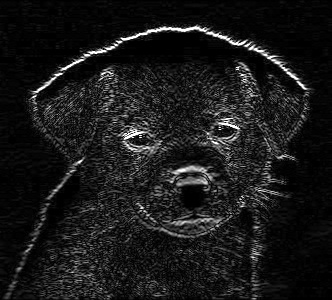
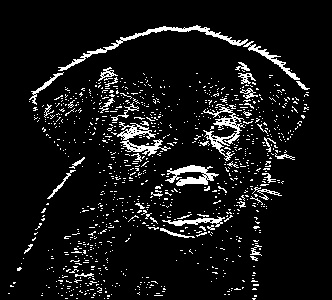
Final code, commiting before merging latex

diff --git a/scripts/part3.py b/scripts/part3.py
@@ -4,62 +4,75 @@ from matplotlib import pyplot as plt
 import csv
 from utils import mse, circle_mask
 
-image = cv2.imread("./data/pup.jpg", cv2.IMREAD_GRAYSCALE) / 255.0
+image = cv2.imread("../data/pup.jpg", cv2.IMREAD_GRAYSCALE) / 255.0
 fft = np.fft.fft2(image)
+
+# Remove plt frame
+x = plt.axes([0,0,1,1], frameon=False)
+x.get_xaxis().set_visible(False)
+x.get_yaxis().set_visible(False)
 
 ### A
 # Unshifted
 plt.imshow(np.abs(fft), cmap = 'gray')
-plt.title('Magnitude'), plt.xticks([]), plt.yticks([])
-plt.savefig("./figures/part3/fft.png")
+#plt.title('Magnitude'),
+plt.xticks([]), plt.yticks([])
+plt.savefig("../figures/part3/fft.png", transparent=True)
 
 # # Shifted
 fft_shift = np.fft.fftshift(fft)
 plt.imshow(np.abs(fft_shift), cmap = 'gray')
-plt.title('Magnitude Shifted'), plt.xticks([]), plt.yticks([])
-plt.savefig("./figures/part3/fft_shift.png")
+#plt.title('Magnitude Shifted'),
+plt.xticks([]), plt.yticks([])
+plt.savefig("../figures/part3/fft_shift.png", transparent=True)
 
 # Log applied
 fft_log = 20*np.log(np.abs(fft_shift))
 plt.imshow(fft_log, cmap = 'gray')
-plt.title('Log Magnitude Shifted'), plt.xticks([]), plt.yticks([])
-plt.savefig("./figures/part3/fft_log.png")
+#plt.title('Log Magnitude Shifted'),
+plt.xticks([]), plt.yticks([])
+plt.savefig("../figures/part3/fft_log.png", transparent=True)
 
 ### B
 # Inverse
 reconstructed = np.abs(np.fft.ifft2(fft_shift))
 plt.imshow(reconstructed, cmap='gray')
-plt.title('Reconstructed Image'), plt.xticks([]), plt.yticks([])
-plt.savefig("./figures/part3/recon.png")
+#plt.title('Reconstructed Image'),
+plt.xticks([]), plt.yticks([])
+plt.savefig("../figures/part3/recon.png", transparent=True)
 
 ### C
 # Radius of N/3
 freq_3 = circle_mask(fft_shift, 3)
 recon_3 = np.abs(np.fft.ifft2(freq_3))# + np.abs(fft_shift)))
 plt.imshow(recon_3, cmap='gray')
-plt.title('Reconstructed Image (N/3)'), plt.xticks([]), plt.yticks([])
-plt.savefig("./figures/part3/recon_3.png")
+#plt.title('Reconstructed Image (N/3)'),
+plt.xticks([]), plt.yticks([])
+plt.savefig("../figures/part3/recon_3.png", transparent=True)
 
 # Radius of N/4
 freq_4 = circle_mask(fft_shift, 4)
 recon_4 = np.abs(np.fft.ifft2(freq_4))# + np.abs(fft_shift)))
 plt.imshow(recon_4, cmap='gray')
-plt.title('Reconstructed Image (N/4)'), plt.xticks([]), plt.yticks([])
-plt.savefig("./figures/part3/recon_4.png")
+#plt.title('Reconstructed Image (N/4)'#plt.title
+plt.xticks([]), plt.yticks([])
+plt.savefig("../figures/part3/recon_4.png", transparent=True)
 
 # Radius of N/8
 freq_8 = circle_mask(fft_shift, 8)
 recon_8 = np.abs(np.fft.ifft2(freq_8))# + np.abs(fft_shift)))
 plt.imshow(recon_8, cmap='gray')
-plt.title('Reconstructed Image (N/8)'), plt.xticks([]), plt.yticks([])
-plt.savefig("./figures/part3/recon_8.png")
+#plt.title('Reconstructed Image (N/8)'
+plt.xticks([]), plt.yticks([])
+plt.savefig("../figures/part3/recon_8.png", transparent=True)
 
 # Radius of N/16
 freq_16 = circle_mask(fft_shift, 16)
 recon_16 = np.abs(np.fft.ifft2(freq_16))# + np.abs(fft_shift)))
 plt.imshow(recon_16, cmap='gray')
-plt.title('Reconstructed Image (N/16)'), plt.xticks([]), plt.yticks([])
-plt.savefig("./figures/part3/recon_16.png")
+#plt.title('Reconstructed Image (N/16)'),
+plt.xticks([]), plt.yticks([])
+plt.savefig("../figures/part3/recon_16.png", transparent=True)
 
 # Compile MSE results
 mse_results = []
@@ -71,7 +84,7 @@ mse_results.append(("N/8", '{:0.3e}'.format(mse(image, recon_8))))
 mse_results.append(("N/16", '{:0.3e}'.format(mse(image, recon_16))))
 
 # Export results to csv
-with open('./figures/part3/results.csv', 'wb') as f:
+with open('../figures/part3/results.csv', 'wb') as f:
     writer = csv.writer(f)
     writer.writerow(['reconstruction', 'mse'])
     for (recon, value) in mse_results:

diff --git a/scripts/part2.py b/scripts/part2.py
@@ -1,0 +1,75 @@
+import numpy as np
+import cv2
+from skimage.util import random_noise
+import matplotlib
+from utils import conv, median, snr, threshold
+
+EXPORT_IMAGES = True
+
+image = cv2.imread("../data/pup.jpg", cv2.IMREAD_GRAYSCALE) / 255.0
+
+# Generate salt and pepper noise
+seasoned_image = random_noise(image, mode='s&p', seed=0)
+seasoned_snr = snr(image, seasoned_image)
+print("Salt and pepper SNR: " + str(seasoned_snr) + " dB")
+
+# Generate Gaussian noise
+gaussed_image = random_noise(image, mode='gaussian', seed=0)
+gaussed_snr = snr(image, gaussed_image)
+print("Gaussian SNR: " + str(gaussed_snr) + " dB")
+
+# Apply a median filter over image
+# 5x5 averaging filter kernel (low pass)
+avg_kernel = np.ones((5,5)) / 25.0
+averaged_simage = conv(seasoned_image, avg_kernel)
+averaged_gimage = conv(gaussed_image, avg_kernel)
+
+
+# Apply a median filter over image
+median_simage = median(seasoned_image, 5)
+median_gimage = median(gaussed_image, 5)
+
+# Sobel edge detection filters
+sx_kernel = [[-1,0,1],
+             [-2,0,2],
+             [-1,0,1]]
+
+sy_kernel = [[1,2,1],
+             [0,0,0],
+             [-1,-2,-1]]
+
+# Sobel edge filter on noisy images
+sx = np.abs(conv(seasoned_image, sx_kernel))
+sx = threshold(sx, 0.3)
+sy = np.abs(conv(seasoned_image, sy_kernel))
+sy = threshold(sy, 0.3)
+sobel_simage = sx + sy
+sx = np.abs(conv(gaussed_image, sx_kernel))
+sx = threshold(sx, 0.3)
+sy = np.abs(conv(gaussed_image, sy_kernel))
+sy = threshold(sy, 0.3)
+sobel_gimage = sx + sy
+
+# Sobel edge filter on pre-filtered noisy images
+sx = np.abs(conv(median_simage, sx_kernel))
+sx = threshold(sx, 0.3)
+sy = np.abs(conv(median_simage, sy_kernel))
+sy = threshold(sy, 0.3)
+sobel_msimage = sx + sy
+sx = np.abs(conv(averaged_gimage, sx_kernel))
+sx = threshold(sx, 0.3)
+sy = np.abs(conv(averaged_gimage, sy_kernel))
+sy = threshold(sy, 0.3)
+sobel_lgimage = sx + sy
+
+if EXPORT_IMAGES:
+    cv2.imwrite("../figures/part2/seasoned_pup.jpg", seasoned_image * 255)
+    cv2.imwrite("../figures/part2/gaussed_pup.jpg", gaussed_image * 255)
+    cv2.imwrite("../figures/part2/averaged_spup.jpg", averaged_simage * 255)
+    cv2.imwrite("../figures/part2/averaged_gpup.jpg", averaged_gimage * 255)
+    cv2.imwrite("../figures/part2/median_spup.jpg", median_simage * 255)
+    cv2.imwrite("../figures/part2/median_gpup.jpg", median_gimage * 255)
+    cv2.imwrite("../figures/part2/sobel_spup.jpg", sobel_simage * 255)
+    cv2.imwrite("../figures/part2/sobel_gpup.jpg", sobel_gimage * 255)
+    cv2.imwrite("../figures/part2/sobel_mspup.jpg", sobel_msimage * 255)
+    cv2.imwrite("../figures/part2/sobel_lgpup.jpg", sobel_lgimage * 255)

diff --git a/scripts/part4.py b/scripts/part4.py
@@ -1,0 +1,57 @@
+import numpy as np
+import cv2
+from matplotlib import pyplot as plt
+from utils import mse
+
+# Remove plt frame
+x = plt.axes([0,0,1,1], frameon=False)
+x.get_xaxis().set_visible(False)
+x.get_yaxis().set_visible(False)
+
+image1 = cv2.imread("../data/n02091032_561.jpg",
+                    cv2.IMREAD_GRAYSCALE) / 255.0
+fft1 = np.fft.fft2(image1)
+fft1_shift = np.fft.fftshift(fft1)
+fft1_real_log = 20*np.log(np.abs(fft1_shift))
+fft1_imag_log = 20*np.log(fft1_shift.imag)
+
+
+image2 = cv2.imread("../data/n02091134_755.jpg",
+                    cv2.IMREAD_GRAYSCALE) / 255.0
+fft2 = np.fft.fft2(image2)
+fft2_shift = np.fft.fftshift(fft2)
+fft2_real_log = 20*np.log(np.abs(fft2_shift))
+fft2_imag_log = 20*np.log(fft2_shift.imag)
+
+### A
+# Image 1 FFT
+plt.imshow(fft1_real_log, cmap = 'gray')
+plt.xticks([]), plt.yticks([])
+plt.savefig("../figures/part4/fft1_mag.png", transparent=True)
+
+plt.imshow(fft1_imag_log, cmap = 'gray')
+plt.xticks([]), plt.yticks([])
+plt.savefig("../figures/part4/fft1_phase.png", transparent=True)
+
+# Image 2 FFT
+plt.imshow(fft2_real_log, cmap = 'gray')
+plt.xticks([]), plt.yticks([])
+plt.savefig("../figures/part4/fft2_mag.png", transparent=True)
+
+plt.imshow(fft2_imag_log, cmap = 'gray')
+plt.xticks([]), plt.yticks([])
+plt.savefig("../figures/part4/fft2_phase.png", transparent=True)
+
+### B
+recon_1 = np.abs(np.fft.ifft2(fft2.real + (1j * fft1.imag)))
+print("Recon 1 mse: " + str(mse(recon_1, image1)))
+recon_2 = np.abs(np.fft.ifft2(fft1.real + (1j * fft2.imag)))
+print("Recon 2 mse: " + str(mse(recon_2, image2)))
+
+plt.imshow(recon_1, cmap = 'gray')
+plt.xticks([]), plt.yticks([])
+plt.savefig("../figures/part4/fft1_recon.png", transparent=True)
+
+plt.imshow(recon_2, cmap = 'gray')
+plt.xticks([]), plt.yticks([])
+plt.savefig("../figures/part4/fft2_recon.png", transparent=True)

diff --git a/scripts/part1.py b/scripts/part1.py
@@ -1,11 +1,11 @@
 import numpy as np
 import cv2
 import time
-from utils import conv
+from utils import conv, threshold
 
-EXPORT_IMAGES = False
+EXPORT_IMAGES = True
 
-image = cv2.imread("./data/pup.jpg", cv2.IMREAD_GRAYSCALE) / 255.0
+image = cv2.imread("../data/pup.jpg", cv2.IMREAD_GRAYSCALE) / 255.0
 
 # 5x5 averaging filter kernel (low pass)
 avg_kernel = np.ones((5,5)) / 25.0
@@ -35,16 +35,23 @@ print("Highpass execution time (s): " + str(conv_end - conv_start))
 
 # Low pass filter
 low = conv(image, avg_kernel)
+low2 = conv(low, avg_kernel)
+low3 = conv(low2, avg_kernel)
+
 
 # Sobel edge filter
 sx = np.abs(conv(image, sx_kernel))
+sx = threshold(sx, 0.3)
 sy = np.abs(conv(image, sy_kernel))
+sy = threshold(sy, 0.3)
 sobel = sx + sy
-
+sobel[sobel > 255] = 255
 
 if EXPORT_IMAGES:
-    cv2.imwrite("./figures/part1/high_pup.jpg", high * 255)
-    cv2.imwrite("./figures/part1/low_pup.jpg", low * 255)
-    cv2.imwrite("./figures/part1/edgex_pup.jpg", sx * 255)
-    cv2.imwrite("./figures/part1/edgey_pup.jpg", sy * 255)
-    cv2.imwrite("./figures/part1/edge_pup.jpg", sobel * 255)
+    cv2.imwrite("../figures/part1/high_pup.jpg", high * 255)
+    cv2.imwrite("../figures/part1/low_pup.jpg", low * 255)
+    cv2.imwrite("../figures/part1/low2_pup.jpg", low2 * 255)
+    cv2.imwrite("../figures/part1/low3_pup.jpg", low3 * 255)
+    cv2.imwrite("../figures/part1/edgex_pup.jpg", sx * 255)
+    cv2.imwrite("../figures/part1/edgey_pup.jpg", sy * 255)
+    cv2.imwrite("../figures/part1/edge_pup.jpg", sobel * 255)

diff --git a/scripts/utils.py b/scripts/utils.py
@@ -68,3 +68,8 @@ def circle_mask(img, radius):
     mask = distances <= (n / radius)
     # Apply mask to the given image and return
     return np.multiply(mask, img)
+
+def threshold(img, thresh):
+    img[img < thresh] = 0
+    img[img >= thresh] = 255
+    return img
